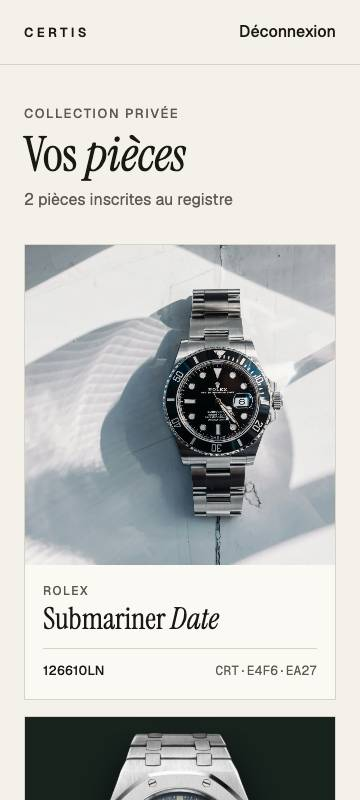
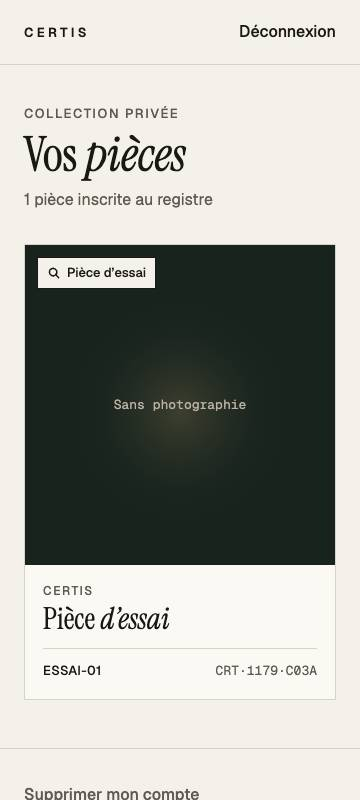
fix(docs): the lot 1 checker creates a throwaway account instead of logging in
GitGuardian flagged the demo seed password copied into verifier.mjs. It is a
dev-only value already in backend/prisma/seed.ts, but a script needs none: it
now registers a random account, which receives its trial piece (ADR-0012).
Captures and axe rerun: 32 captures, 0 violation, no horizontal scroll.

diff --git a/docs/lots/lot-1/README.md b/docs/lots/lot-1/README.md
@@ -4,7 +4,7 @@ Décision : [ADR-0014](../../adr/0014-tokens-maison-et-theme-sombre.md). Vocabul
 
 ## Vérification (2026-11-25)
 
-- **Captures** : 8 vues × 360 et 1440 px × clair et sombre, soit 32 captures dans ce dossier. Elles couvrent l'accueil, la connexion, la collection (pleine, vide, hors ligne), la fiche, la vérification, et la vérification avec `?lang=en`.
+- **Captures** : 8 vues × 360 et 1440 px × clair et sombre, soit 32 captures dans ce dossier. Elles couvrent l'accueil, la connexion, la collection (pleine, vide, hors ligne ; un compte jetable et sa pièce d’essai), la fiche, la vérification, et la vérification avec `?lang=en`.
 - **Débordement horizontal** : aucun, sur les 32.
 - **axe (WCAG 2.0, 2.1 et 2.2 AA)** : 0 violation sur les 32 ([`axe.json`](axe.json)).
 - **Contraste** : tous les couples texte/fond des quatre palettes passent 4,5:1. Le plus faible, le texte secondaire sur une carte de nuit, est à 6,5:1.
